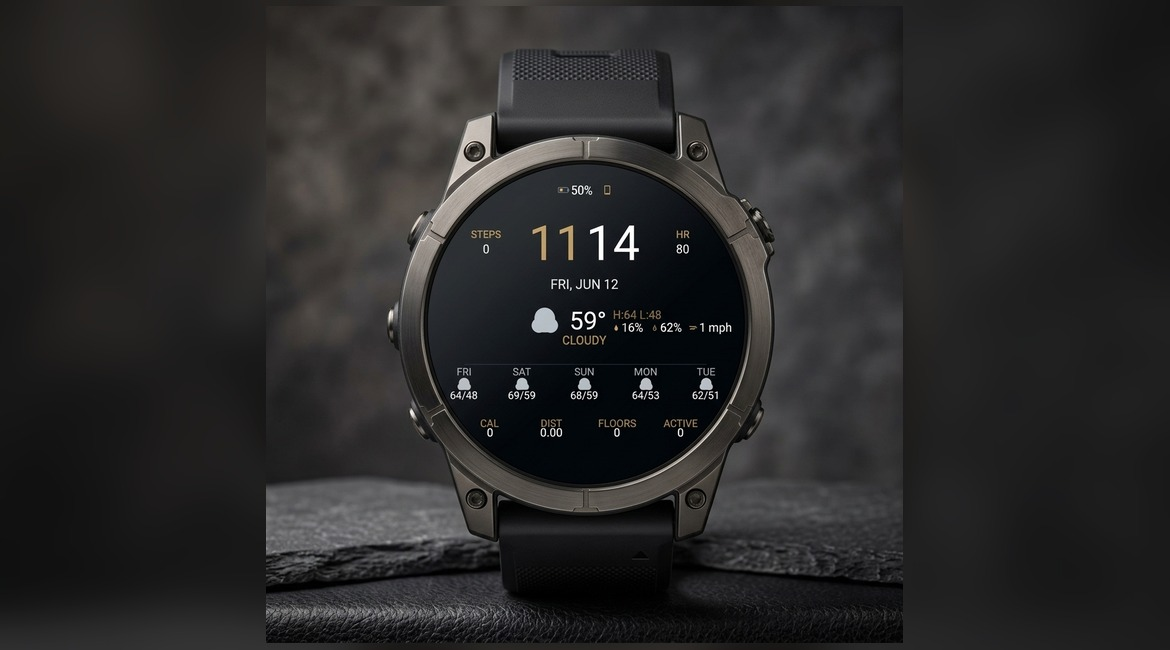
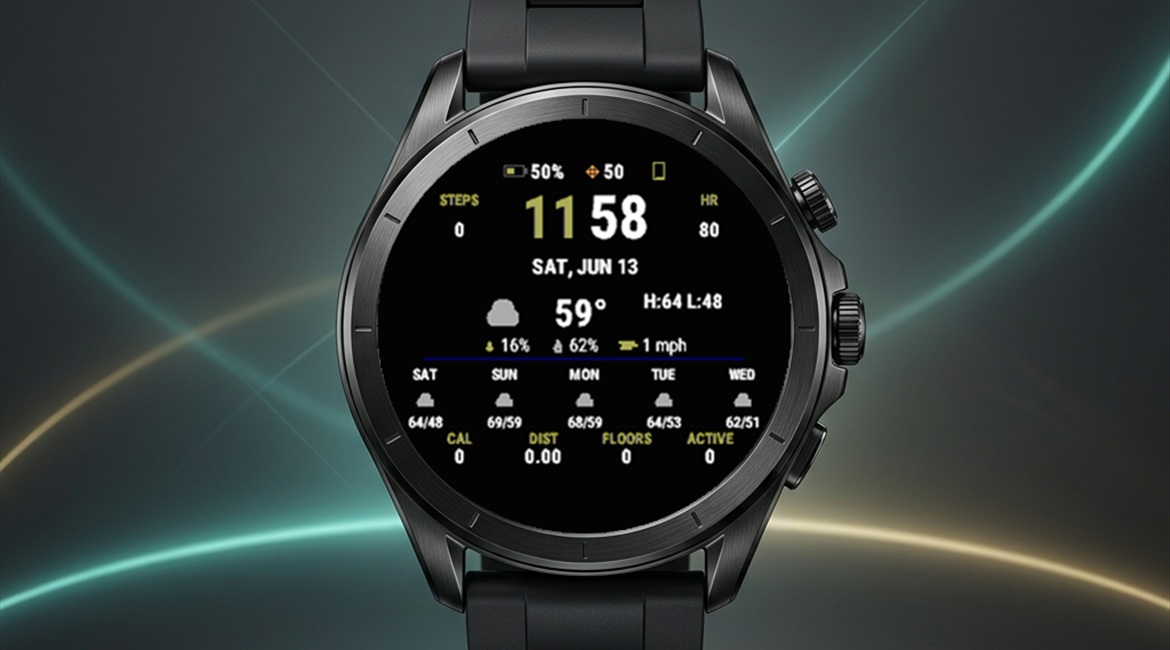
Update screenshots to new design and showcase them in README
Refresh assets (screen capture, cover image, app icon hero, device icons)
to reflect the current layout, and add a hero banner plus device shots to
the top of the README.

diff --git a/README.md b/README.md
@@ -1,8 +1,18 @@
 # Nimbus Digital — Premium Garmin Weather-First Dashboard
 
+<p align="center">
+  <img src="assets/cover_image.png" alt="Nimbus Digital" width="640">
+</p>
+
 Nimbus Digital is a premium, data-driven, weather-first digital watch face for Garmin Connect IQ. It is designed to provide an information-rich dashboard experience that remains highly legible, optimized for both MIP and AMOLED displays (Fenix, Epix, Venu, Forerunner, etc.).
 
 By presenting current weather conditions, a full 5-day forecast, activity metrics, and device status in a clean, unified dashboard, Nimbus Digital ensures you have all critical information available at a single glance.
+
+<p align="center">
+  <img src="assets/screen_active.png" alt="Nimbus Digital watch face" width="300">
+  &nbsp;&nbsp;&nbsp;
+  <img src="assets/app_icon_hero.png" alt="Nimbus Digital on device" width="300">
+</p>
 
 ## Design Aesthetics & Philosophy
 - **Clean Digital Interface**: Large, high-visibility digital clock featuring a split-color layout (hour in accent theme, minutes in white/silver).
